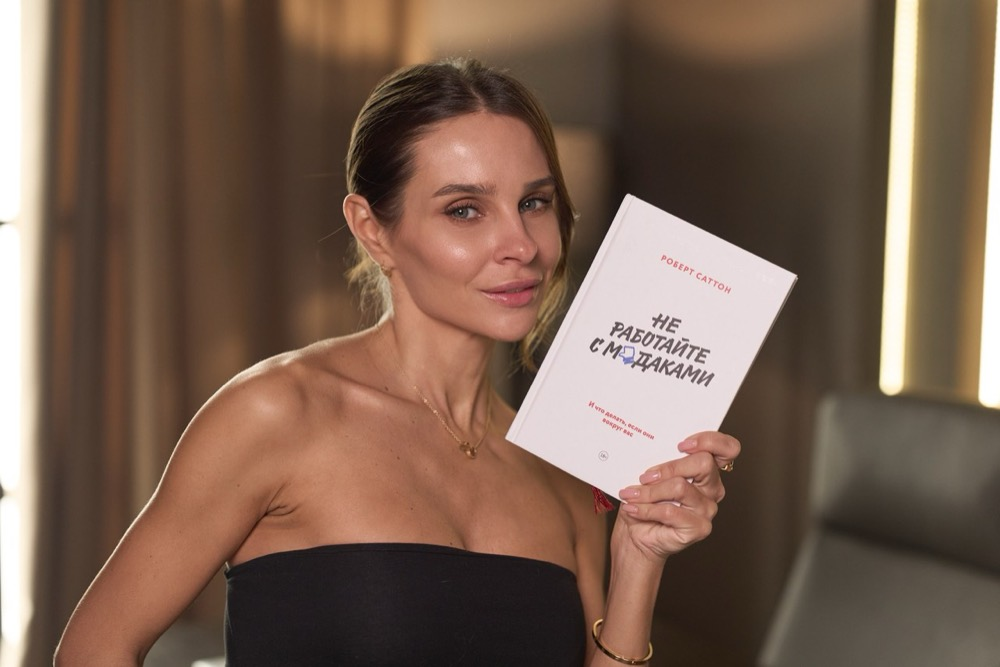
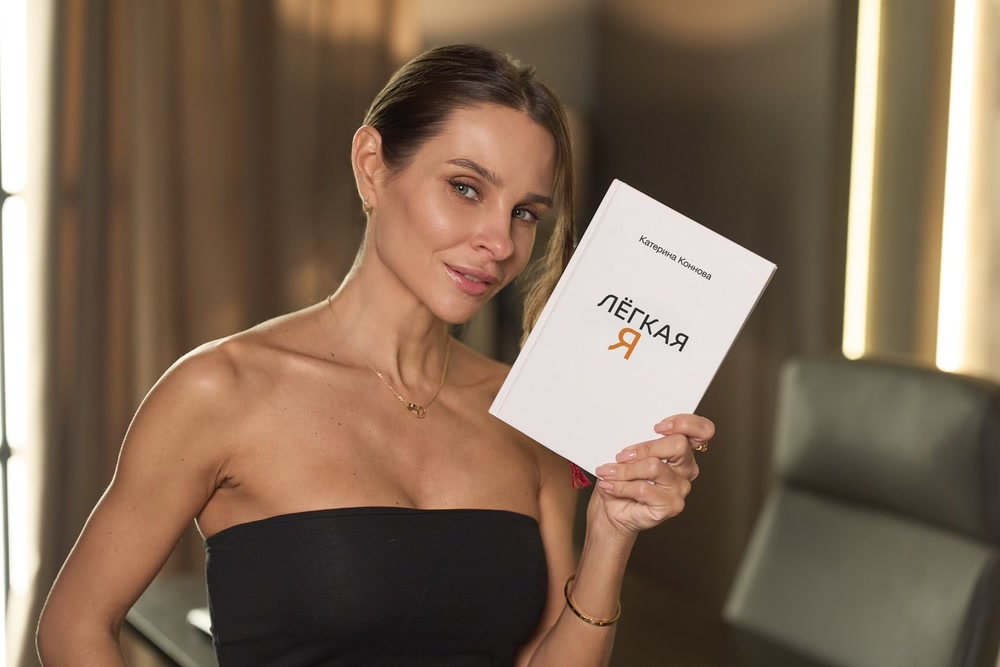
Отретушированные фото во всех блоках, на кадрах с книгой — обложка «Лёгкой Я»

diff --git a/index.html b/index.html
@@ -10,7 +10,7 @@
 <link rel="preconnect" href="https://fonts.googleapis.com">
 <link rel="preconnect" href="https://fonts.gstatic.com" crossorigin>
 <link href="https://fonts.googleapis.com/css2?family=Cormorant+Garamond:ital,wght@0,400;0,500;0,600;1,400;1,500&amp;family=Manrope:wght@400;500;600;700&amp;display=swap" rel="stylesheet">
-<link rel="stylesheet" href="styles.css?v=202611231514">
+<link rel="stylesheet" href="styles.css?v=202611240933">
 <style>/* первый экран: держится даже со старым styles.css из кэша */
 .kk-hero-dark{position:relative;overflow:hidden;background:#2A231E;margin-top:-14px}.kk-hero-video{position:absolute;inset:0;width:100%;height:100%;object-fit:cover;object-position:50% 30%;pointer-events:none}.kk-hero-shade{position:absolute;inset:0;background:linear-gradient(90deg,rgba(30,24,20,.72) 0%,rgba(30,24,20,.45) 40%,rgba(30,24,20,.08) 75%),linear-gradient(0deg,rgba(30,24,20,.72) 0%,rgba(30,24,20,.2) 55%,rgba(30,24,20,.3) 100%)}.kk-hero{position:relative;box-sizing:border-box;max-width:1240px;margin:0 auto;min-height:100vh;min-height:100svh;padding:130px 24px 56px;display:flex;align-items:flex-end}.kk-hero-text{display:flex;flex-direction:column;gap:22px;max-width:680px}.kk-hero-stats{display:flex;flex-wrap:wrap;gap:8px;padding-top:6px}
 @media (max-width:760px){.kk-hero{padding:110px 20px 40px}.kk-hero-text{align-items:center;text-align:center;gap:18px;margin:0 auto}.kk-hero-btns{flex-direction:column;align-self:stretch;align-items:stretch!important;gap:14px!important}.kk-hero-btns a:first-child{justify-content:center}.kk-hero-stats{justify-content:center}.kk-hero-shade{background:linear-gradient(0deg,rgba(30,24,20,.86) 0%,rgba(30,24,20,.62) 45%,rgba(30,24,20,.18) 78%,rgba(30,24,20,.32) 100%)}}</style>
@@ -110,7 +110,7 @@
 <div aria-hidden="true" style="position: absolute; right: 4%; bottom: 0; width: 320px; height: 280px; border-radius: 999px; background: #E3D5C0; filter: blur(56px); opacity: 0.8"></div>
 <div aria-hidden="true" style="position: absolute; width: 520px; max-width: 96%; aspect-ratio: 1 / 1; border-radius: 999px; border: 1px dashed #D9CBB6"></div>
 <div class="kk-glass" style="position: relative; width: 400px; max-width: 80%; aspect-ratio: 1 / 1; border-radius: 999px; display: flex; align-items: center; justify-content: center">
-<span style="position: relative; width: 84%; aspect-ratio: 1 / 1; border-radius: 999px; background: linear-gradient(135deg, #EADECD, #F6F0E8); overflow: hidden"><img src="assets/photos/system.jpg" alt="Катерина с салатом и кусочком пиццы" loading="lazy" style="position: absolute; inset: 0; width: 100%; height: 100%; object-fit: cover; object-position: 62% 40%; border-radius: inherit; display: block"></span>
+<span style="position: relative; width: 84%; aspect-ratio: 1 / 1; border-radius: 999px; background: linear-gradient(135deg, #EADECD, #F6F0E8); overflow: hidden"><img src="assets/photos/system.jpg" alt="Катерина с кусочком пиццы" loading="lazy" style="position: absolute; inset: 0; width: 100%; height: 100%; object-fit: cover; object-position: 62% 40%; border-radius: inherit; display: block"></span>
 </div>
 <span class="kk-pill kk-bob1 kk-glass" style="position: absolute; left: 4%; top: 14%; border-radius: 999px; padding: 10px 22px; font-family: 'Cormorant Garamond', serif; font-size: 22px; font-style: italic; color: #4A3F36">Без диет</span>
 <span class="kk-pill kk-bob2 kk-glass" style="position: absolute; right: 2%; top: 22%; border-radius: 999px; padding: 10px 22px; font-family: 'Cormorant Garamond', serif; font-size: 22px; font-style: italic; color: #4A3F36">Без подсчёта калорий</span>
@@ -361,7 +361,7 @@
 
 </div>
 
-<script src="config.js?v=202611231514"></script>
-<script src="main.js?v=202611231514"></script>
+<script src="config.js?v=202611240933"></script>
+<script src="main.js?v=202611240933"></script>
 </body>
 </html>
